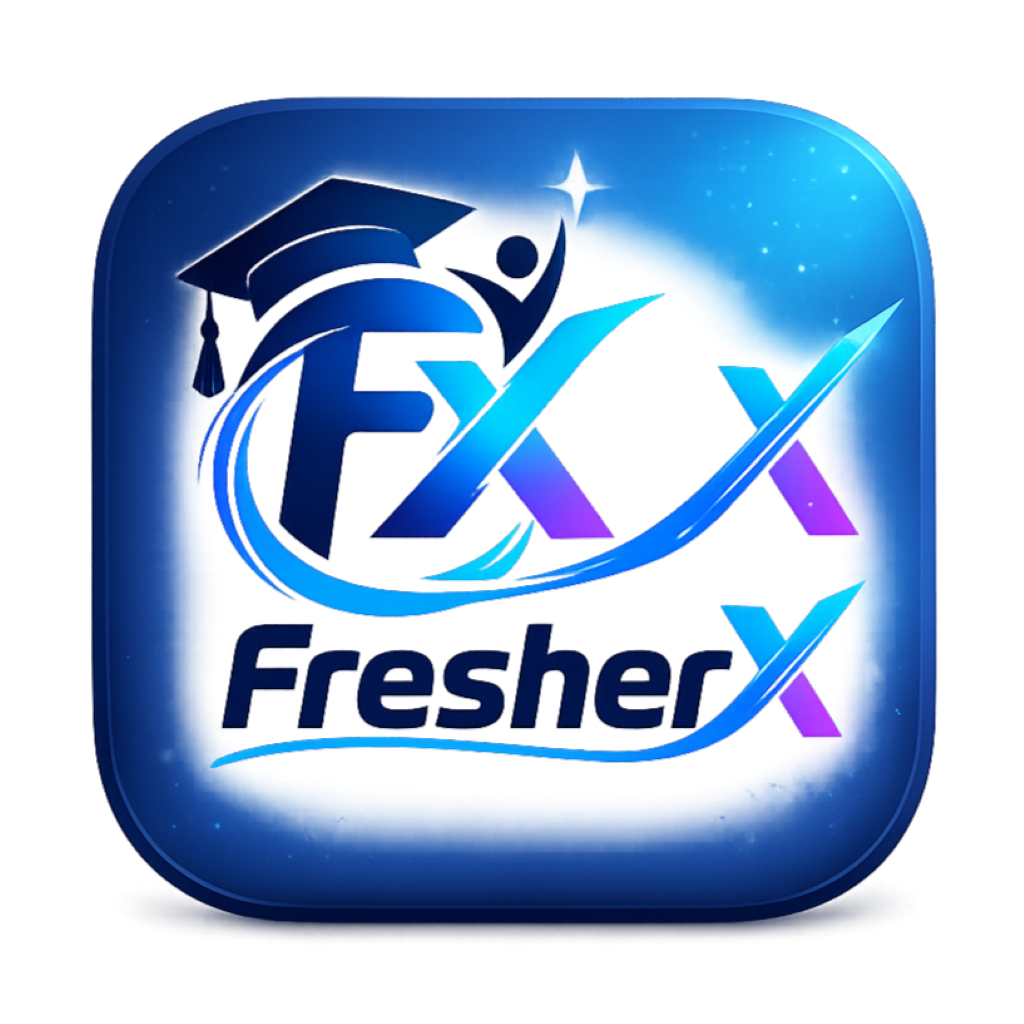
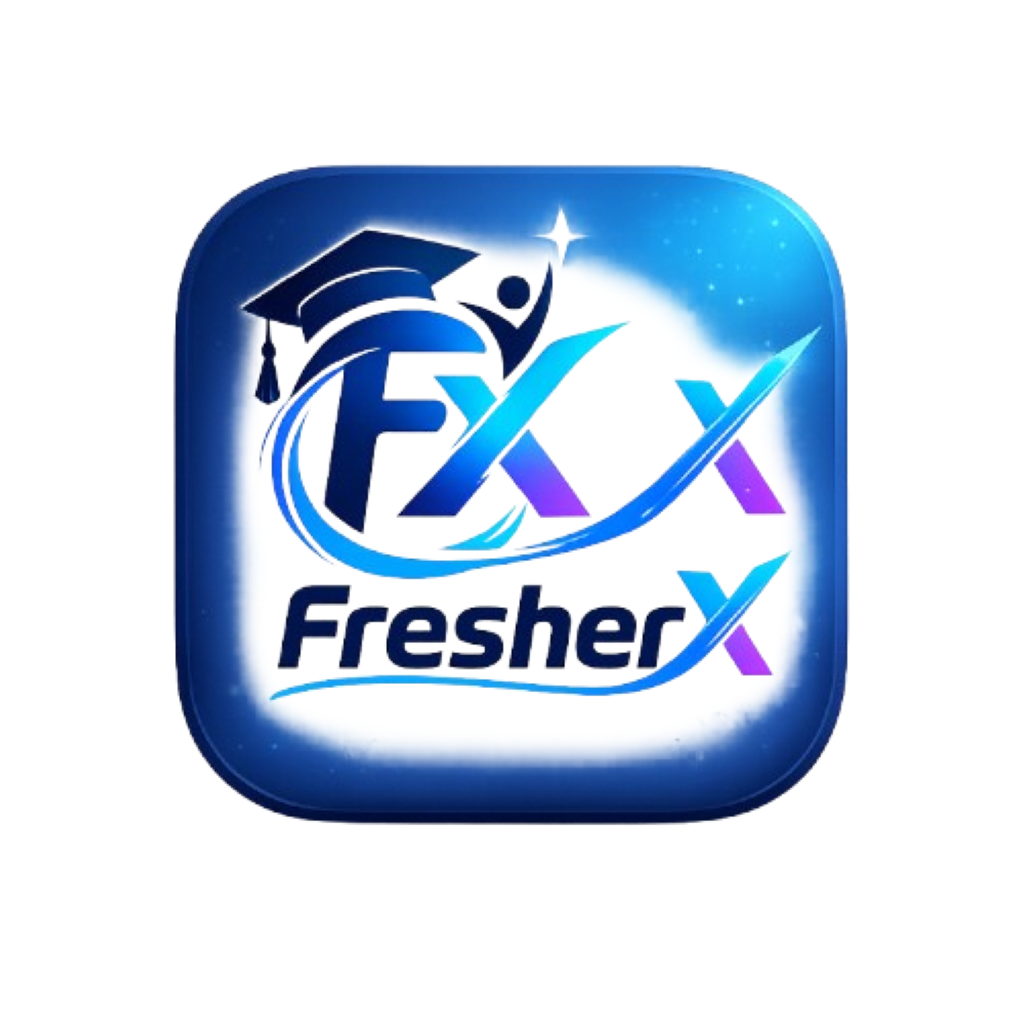
feat: implement automated job expiration notification cron job with Vercel support

diff --git a/backend/src/cron/jobAlerts.ts b/backend/src/cron/jobAlerts.ts
@@ -2,74 +2,76 @@ import cron from 'node-cron';
 import { supabaseAdmin } from '../config/supabase';
 import { NotificationService } from '../services/notification.service';
 
-export const startJobAlertsCron = () => {
-  console.log('Starting Job Expiration Alerts Cron Job...');
-  
-  // Run every 5 minutes
-  cron.schedule('*/5 * * * *', async () => {
-    try {
-      // Find jobs expiring within the next 2 hours
-      const now = new Date();
-      const twoHoursFromNow = new Date(now.getTime() + 2 * 60 * 60 * 1000);
-      
-      const { data: expiringJobs, error } = await supabaseAdmin
-        .from('jobs')
-        .select('id, title, company_name, skills, deadline')
-        .eq('status', 'published')
-        .eq('expiration_alert_sent', false)
-        .gte('deadline', now.toISOString())
-        .lte('deadline', twoHoursFromNow.toISOString());
+export const runJobAlerts = async () => {
+  try {
+    // Find jobs expiring within the next 2 hours
+    const now = new Date();
+    const twoHoursFromNow = new Date(now.getTime() + 2 * 60 * 60 * 1000);
+    
+    const { data: expiringJobs, error } = await supabaseAdmin
+      .from('jobs')
+      .select('id, title, company_name, skills, deadline')
+      .eq('status', 'published')
+      .eq('expiration_alert_sent', false)
+      .gte('deadline', now.toISOString())
+      .lte('deadline', twoHoursFromNow.toISOString());
 
-      if (error) {
-        console.error('Error fetching expiring jobs:', error);
-        return;
-      }
+    if (error) {
+      console.error('Error fetching expiring jobs:', error);
+      return;
+    }
 
-      if (!expiringJobs || expiringJobs.length === 0) {
-        return;
-      }
+    if (!expiringJobs || expiringJobs.length === 0) {
+      return;
+    }
 
-      for (const job of expiringJobs) {
-        // Find matching students for this job
-        if (job.skills && job.skills.length > 0) {
-          const { data: matchingStudents } = await supabaseAdmin
-            .from('student_profiles')
-            .select('user_id')
-            .overlaps('skills', job.skills);
+    for (const job of expiringJobs) {
+      // Find matching students for this job
+      if (job.skills && job.skills.length > 0) {
+        const { data: matchingStudents } = await supabaseAdmin
+          .from('student_profiles')
+          .select('user_id')
+          .overlaps('skills', job.skills);
 
-          if (matchingStudents && matchingStudents.length > 0) {
-            const notifications = matchingStudents.map(student => ({
-              user_id: student.user_id,
+        if (matchingStudents && matchingStudents.length > 0) {
+          const notifications = matchingStudents.map(student => ({
+            user_id: student.user_id,
+            title: 'Urgent: Job Expiring Soon!',
+            body: `Only 2 hours remaining! Apply fast for ${job.title} at ${job.company_name || 'a company'}.`,
+            type: 'job_alert',
+            data: { job_id: job.id }
+          }));
+          
+          await supabaseAdmin.from('notifications').insert(notifications);
+
+          // Send actual FCM push notifications
+          await NotificationService.sendToUsers(
+            matchingStudents.map(student => student.user_id),
+            {
               title: 'Urgent: Job Expiring Soon!',
               body: `Only 2 hours remaining! Apply fast for ${job.title} at ${job.company_name || 'a company'}.`,
-              type: 'job_alert',
               data: { job_id: job.id }
-            }));
-            
-            await supabaseAdmin.from('notifications').insert(notifications);
-
-            // Send actual FCM push notifications
-            await NotificationService.sendToUsers(
-              matchingStudents.map(student => student.user_id),
-              {
-                title: 'Urgent: Job Expiring Soon!',
-                body: `Only 2 hours remaining! Apply fast for ${job.title} at ${job.company_name || 'a company'}.`,
-                data: { job_id: job.id }
-              }
-            );
-          }
+            }
+          );
         }
-        
-        // Mark as sent so we don't spam
-        await supabaseAdmin
-          .from('jobs')
-          .update({ expiration_alert_sent: true })
-          .eq('id', job.id);
-          
-        console.log(`Expiration alert sent for job ${job.id}`);
       }
-    } catch (err) {
-      console.error('Cron Job Error:', err);
+      
+      // Mark as sent so we don't spam
+      await supabaseAdmin
+        .from('jobs')
+        .update({ expiration_alert_sent: true })
+        .eq('id', job.id);
+        
+      console.log(`Expiration alert sent for job ${job.id}`);
     }
-  });
+  } catch (err) {
+    console.error('Cron Job Error:', err);
+    throw err;
+  }
+};
+
+export const startJobAlertsCron = () => {
+  console.log('Starting Job Expiration Alerts Cron Job...');
+  // Run every 5 minutes
+  cron.schedule('*/5 * * * *', runJobAlerts);
 };

diff --git a/backend/src/routes/cron.ts b/backend/src/routes/cron.ts
@@ -1,0 +1,26 @@
+import { Router } from 'express';
+import { runJobAlerts } from '../cron/jobAlerts';
+
+const router = Router();
+
+// Endpoint for Vercel Cron
+router.get('/job-alerts', async (req, res) => {
+  try {
+    // Optional: Add authorization here to verify the request comes from Vercel
+    // https://vercel.com/docs/cron-jobs/manage-cron-jobs#securing-cron-jobs
+    const authHeader = req.headers.authorization;
+    if (process.env.CRON_SECRET && authHeader !== `Bearer ${process.env.CRON_SECRET}`) {
+      return res.status(401).json({ error: 'Unauthorized' });
+    }
+
+    // Run the cron job logic manually
+    await runJobAlerts();
+    
+    return res.status(200).json({ success: true, message: 'Job alerts executed successfully' });
+  } catch (error) {
+    console.error('Manual cron trigger failed:', error);
+    return res.status(500).json({ error: 'Failed to execute job alerts' });
+  }
+});
+
+export default router;

diff --git a/backend/src/index.ts b/backend/src/index.ts
@@ -28,6 +28,7 @@ import notificationRoutes from './routes/notifications';
 import authRoutes from './routes/auth';
 import shareRoutes from './routes/share';
 import fcmRoutes from './routes/fcm';
+import cronRoutes from './routes/cron';
 
 app.use('/api/auth', authRoutes);
 app.use('/api/jobs', jobRoutes);
@@ -37,6 +38,7 @@ app.use('/api/profile', profileRoutes);
 app.use('/api/saved', savedRoutes);
 app.use('/api/notifications', notificationRoutes);
 app.use('/api/fcm', fcmRoutes);
+app.use('/api/cron', cronRoutes);
 app.use('/s', shareRoutes);
 
 // Error handling middleware
@@ -47,10 +49,15 @@ app.use((err: any, req: express.Request, res: express.Response, next: express.Ne
 
 import { startJobAlertsCron } from './cron/jobAlerts';
 
-// Start server
-app.listen(port, () => {
-  console.log(`🚀 Backend server running on http://localhost:${port}`);
-  
-  // Start background jobs
-  startJobAlertsCron();
-});
+// Start server if not in production (Vercel uses the exported app)
+if (process.env.NODE_ENV !== 'production') {
+  app.listen(port, () => {
+    console.log(`🚀 Backend server running on http://localhost:${port}`);
+    
+    // Start background jobs (local only)
+    startJobAlertsCron();
+  });
+}
+
+// Export the Express API for Vercel
+export default app;